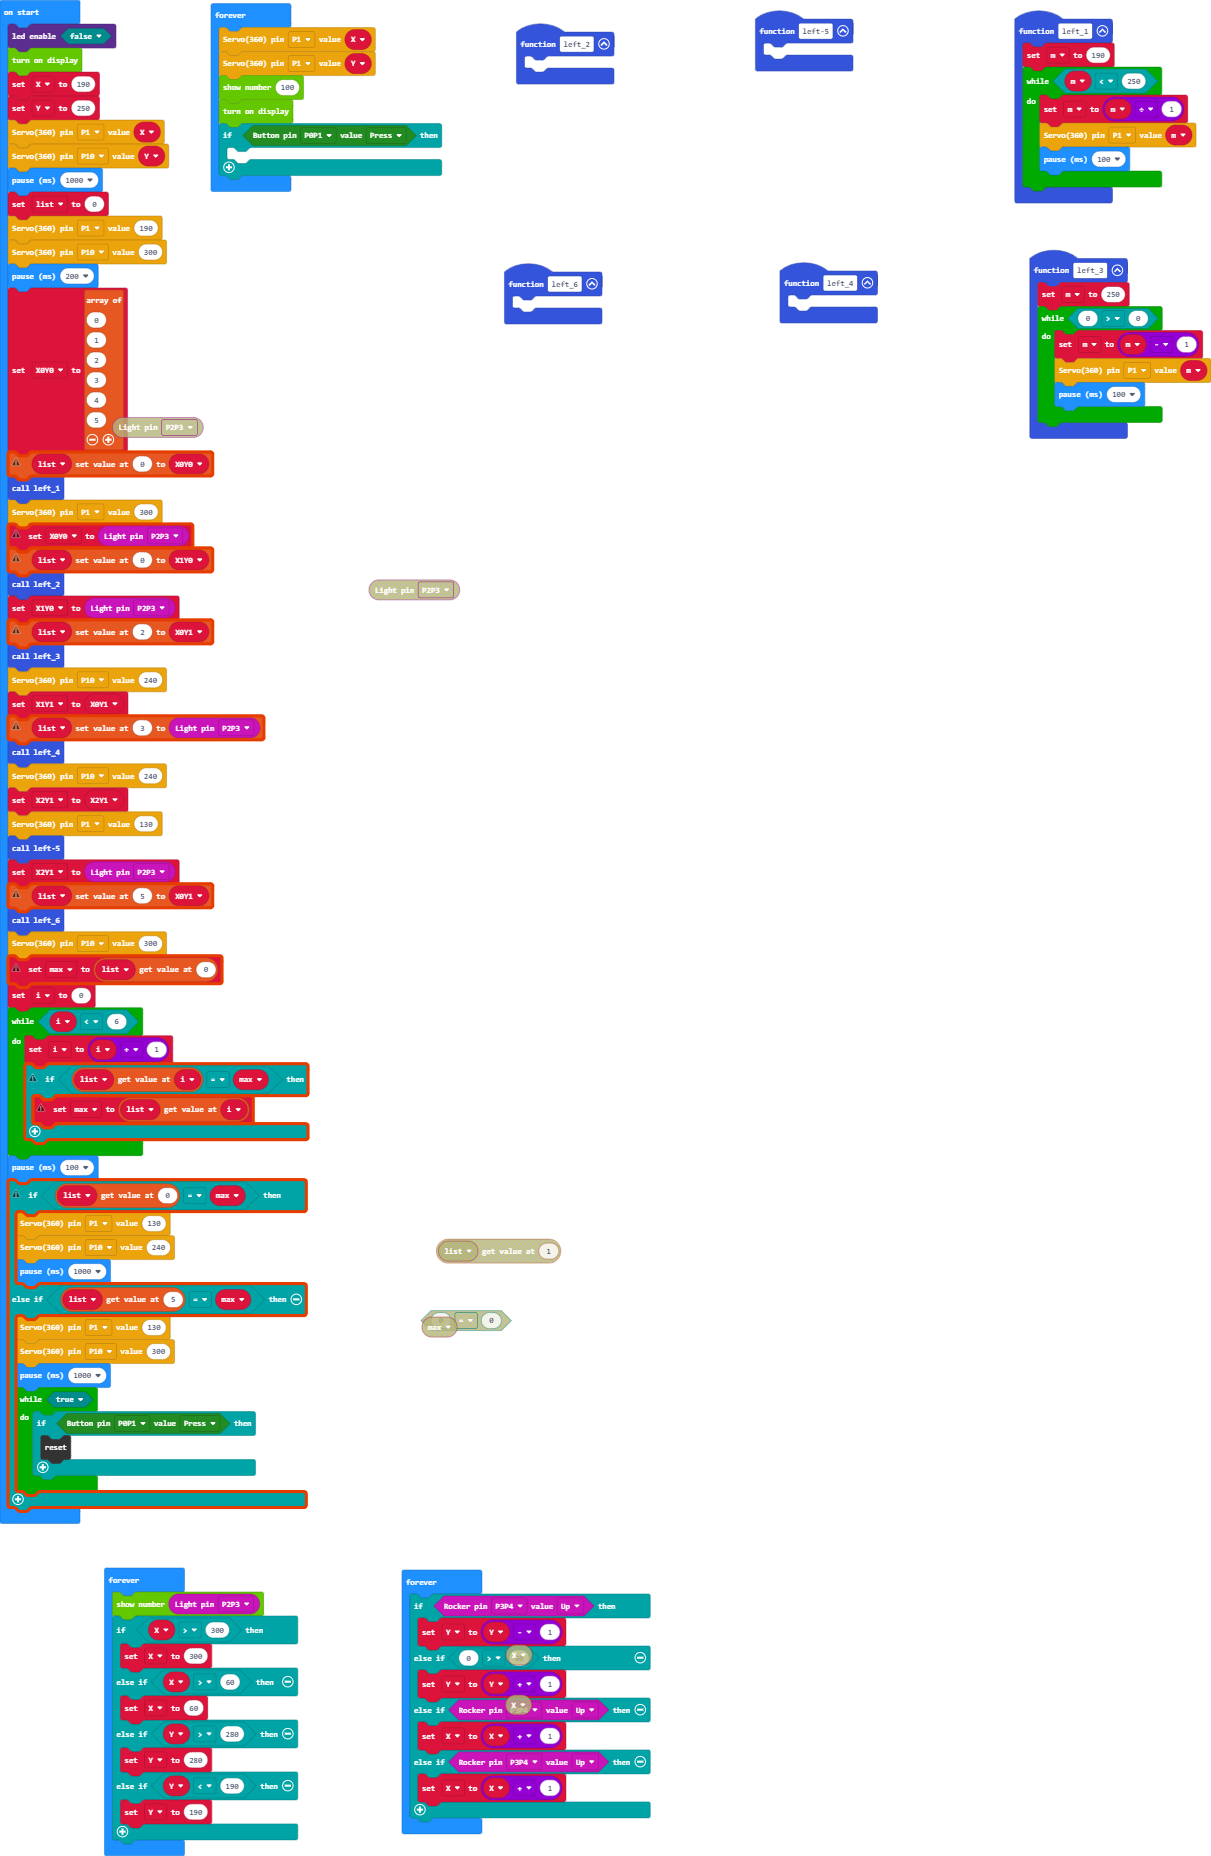
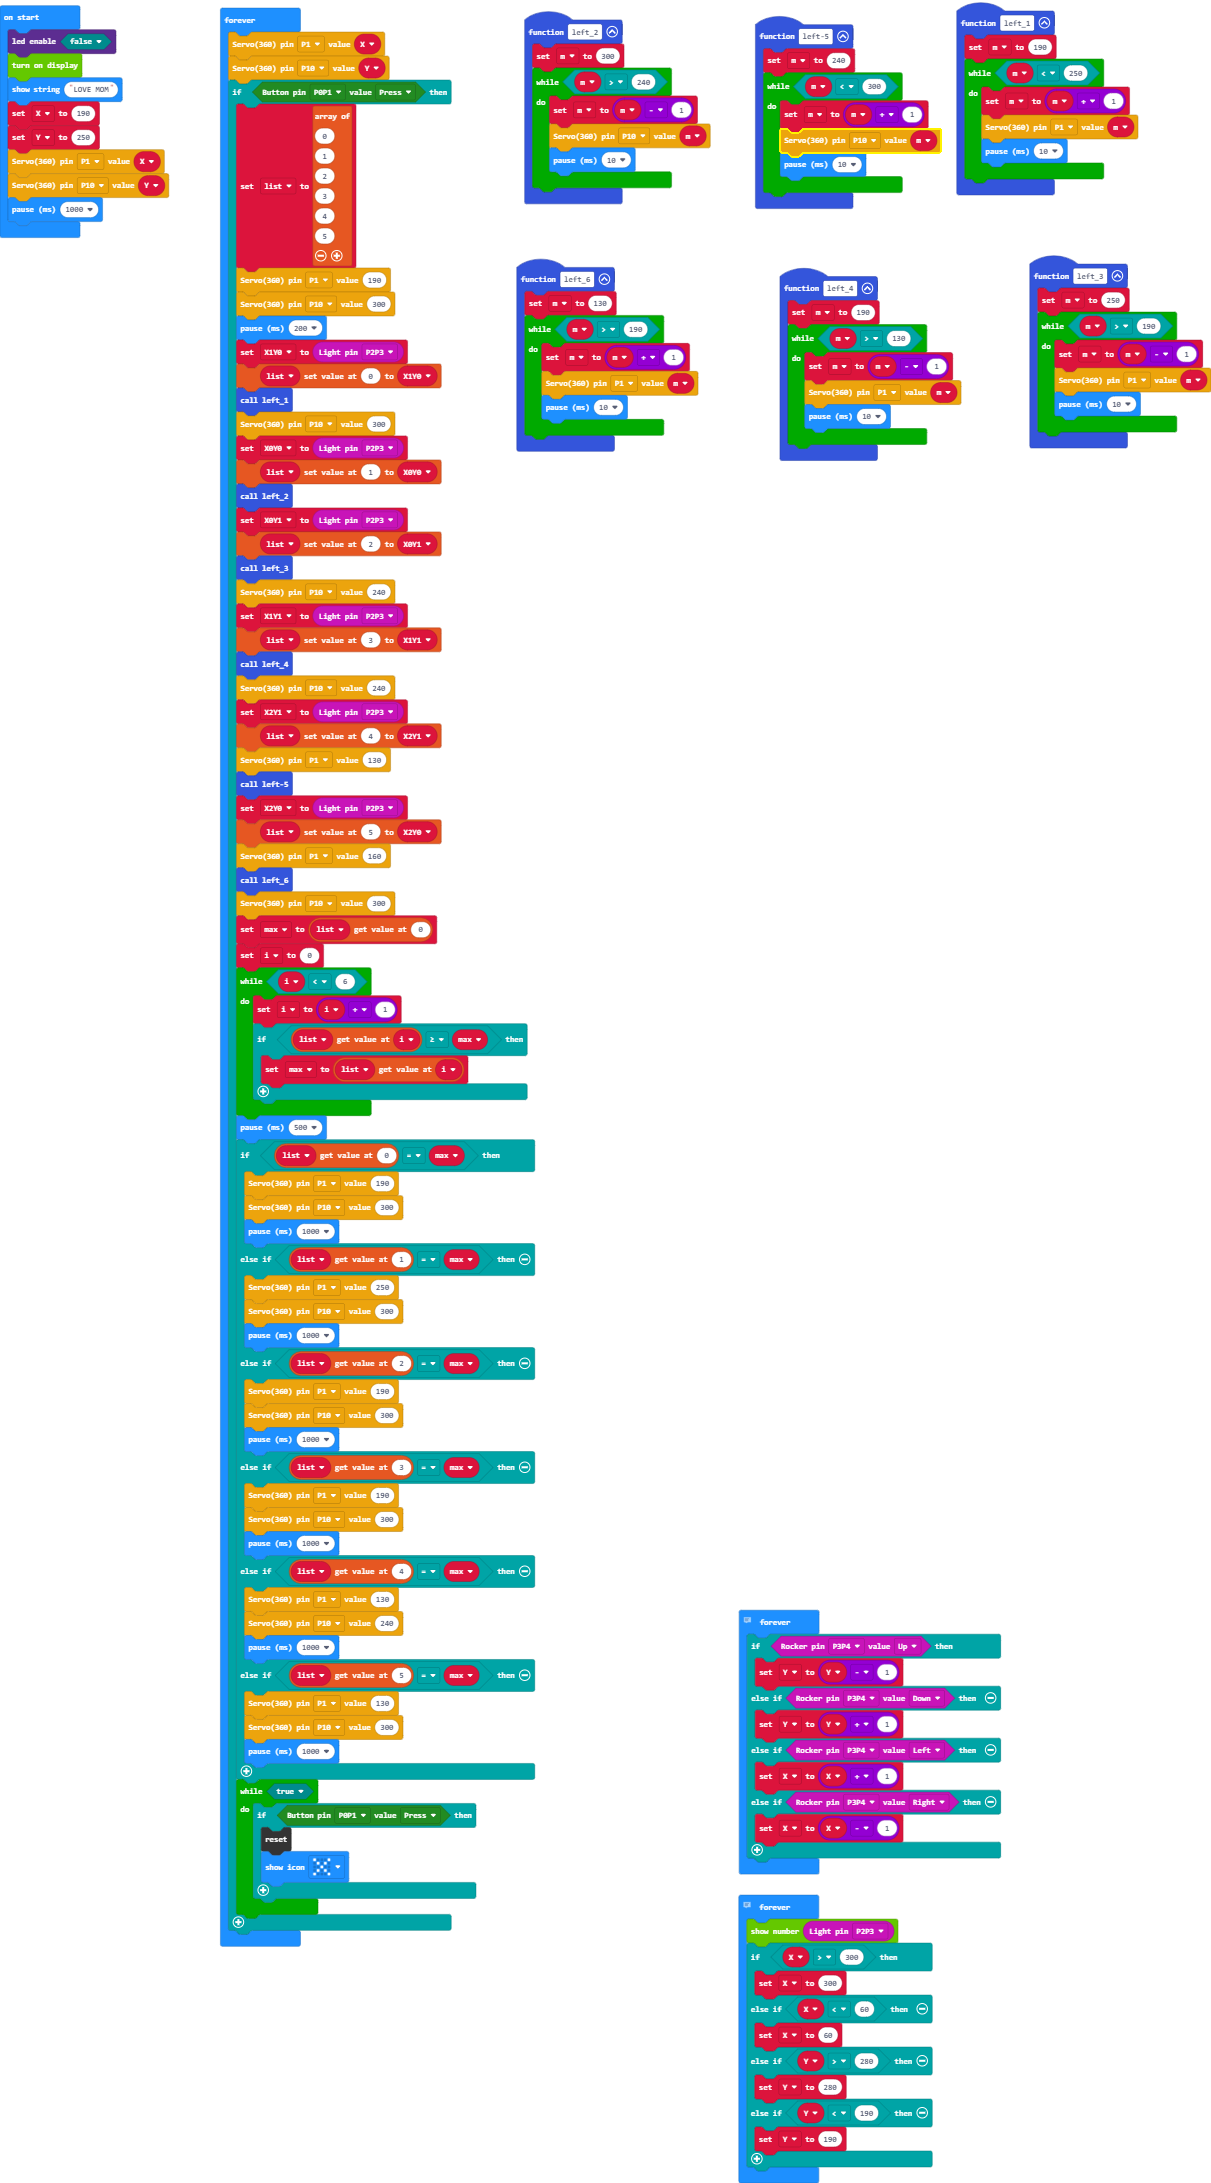
Update main.blocks, main.ts

diff --git a/main.ts b/main.ts
@@ -1,127 +1,170 @@
 function left_2 () {
-	
+    m = 300
+    while (m > 240) {
+        m = m - 1
+        ModuleWorld_PWM.Servo(ModuleWorld_PWM.mwServoNum.P10, m)
+        basic.pause(10)
+    }
 }
 function left_3 () {
     m = 250
-    while (0 > 0) {
+    while (m > 190) {
         m = m - 1
         ModuleWorld_PWM.Servo(ModuleWorld_PWM.mwServoNum.P1, m)
-        basic.pause(100)
+        basic.pause(10)
     }
 }
 function left_4 () {
-	
+    m = 190
+    while (m > 130) {
+        m = m - 1
+        ModuleWorld_PWM.Servo(ModuleWorld_PWM.mwServoNum.P1, m)
+        basic.pause(10)
+    }
 }
 function left_1 () {
     m = 190
     while (m < 250) {
-        m = m / 1
+        m = m + 1
         ModuleWorld_PWM.Servo(ModuleWorld_PWM.mwServoNum.P1, m)
-        basic.pause(100)
+        basic.pause(10)
     }
 }
 function left_6 () {
-	
+    m = 130
+    while (m > 190) {
+        m = m + 1
+        ModuleWorld_PWM.Servo(ModuleWorld_PWM.mwServoNum.P1, m)
+        basic.pause(10)
+    }
 }
 function left5 () {
-	
+    m = 240
+    while (m < 300) {
+        m = m + 1
+        ModuleWorld_PWM.Servo(ModuleWorld_PWM.mwServoNum.P10, m)
+        basic.pause(10)
+    }
 }
-let m = 0
+let i = 0
+let max = 0
+let X2Y0 = 0
 let X2Y1 = 0
+let X1Y1 = 0
 let X0Y1 = 0
+let X0Y0 = 0
 let X1Y0 = 0
+let list: number[] = []
+let m = 0
 led.enable(false)
 TM1650.on()
+basic.showString("LOVE MOM")
 let X = 190
 let Y = 250
 ModuleWorld_PWM.Servo(ModuleWorld_PWM.mwServoNum.P1, X)
 ModuleWorld_PWM.Servo(ModuleWorld_PWM.mwServoNum.P10, Y)
 basic.pause(1000)
-let list = 0
-ModuleWorld_PWM.Servo(ModuleWorld_PWM.mwServoNum.P1, 190)
-ModuleWorld_PWM.Servo(ModuleWorld_PWM.mwServoNum.P10, 300)
-basic.pause(200)
-let X0Y0 = [
-0,
-1,
-2,
-3,
-4,
-5
-]
-list[0] = X0Y0
-left_1()
-ModuleWorld_PWM.Servo(ModuleWorld_PWM.mwServoNum.P1, 300)
-X0Y0 = ModuleWorld_Analog.Light(ModuleWorld_Analog.mwAnalogNum.AP2P3)
-list[0] = X1Y0
-left_2()
-X1Y0 = ModuleWorld_Analog.Light(ModuleWorld_Analog.mwAnalogNum.AP2P3)
-list[2] = X0Y1
-left_3()
-ModuleWorld_PWM.Servo(ModuleWorld_PWM.mwServoNum.P10, 240)
-let X1Y1 = X0Y1
-list[3] = ModuleWorld_Analog.Light(ModuleWorld_Analog.mwAnalogNum.AP2P3)
-left_4()
-ModuleWorld_PWM.Servo(ModuleWorld_PWM.mwServoNum.P10, 240)
-X2Y1 = X2Y1
-ModuleWorld_PWM.Servo(ModuleWorld_PWM.mwServoNum.P1, 130)
-left5()
-X2Y1 = ModuleWorld_Analog.Light(ModuleWorld_Analog.mwAnalogNum.AP2P3)
-list[5] = X0Y1
-left_6()
-ModuleWorld_PWM.Servo(ModuleWorld_PWM.mwServoNum.P10, 300)
-let max = list[0]
-let i = 0
-while (i < 6) {
-    i = i + 1
-    if (list[i] == max) {
-        max = list[i]
-    }
-}
-basic.pause(100)
-if (list[0] == max) {
-    ModuleWorld_PWM.Servo(ModuleWorld_PWM.mwServoNum.P1, 130)
-    ModuleWorld_PWM.Servo(ModuleWorld_PWM.mwServoNum.P10, 240)
-    basic.pause(1000)
-} else if (list[5] == max) {
-    ModuleWorld_PWM.Servo(ModuleWorld_PWM.mwServoNum.P1, 130)
-    ModuleWorld_PWM.Servo(ModuleWorld_PWM.mwServoNum.P10, 300)
-    basic.pause(1000)
-    while (true) {
-        if (ModuleWorld_Digital.Button(ModuleWorld_Digital.mwDigitalNum.P0P1, ModuleWorld_Digital.enButton.Press)) {
-            control.reset()
-        }
-    }
-}
 basic.forever(function () {
     ModuleWorld_PWM.Servo(ModuleWorld_PWM.mwServoNum.P1, X)
-    ModuleWorld_PWM.Servo(ModuleWorld_PWM.mwServoNum.P1, Y)
-    TM1650.showNumber(100)
-    TM1650.on()
+    ModuleWorld_PWM.Servo(ModuleWorld_PWM.mwServoNum.P10, Y)
     if (ModuleWorld_Digital.Button(ModuleWorld_Digital.mwDigitalNum.P0P1, ModuleWorld_Digital.enButton.Press)) {
-    	
+        list = [
+        0,
+        1,
+        2,
+        3,
+        4,
+        5
+        ]
+        ModuleWorld_PWM.Servo(ModuleWorld_PWM.mwServoNum.P1, 190)
+        ModuleWorld_PWM.Servo(ModuleWorld_PWM.mwServoNum.P10, 300)
+        basic.pause(200)
+        X1Y0 = ModuleWorld_Analog.Light(ModuleWorld_Analog.mwAnalogNum.AP2P3)
+        list[0] = X1Y0
+        left_1()
+        ModuleWorld_PWM.Servo(ModuleWorld_PWM.mwServoNum.P10, 300)
+        X0Y0 = ModuleWorld_Analog.Light(ModuleWorld_Analog.mwAnalogNum.AP2P3)
+        list[1] = X0Y0
+        left_2()
+        X0Y1 = ModuleWorld_Analog.Light(ModuleWorld_Analog.mwAnalogNum.AP2P3)
+        list[2] = X0Y1
+        left_3()
+        ModuleWorld_PWM.Servo(ModuleWorld_PWM.mwServoNum.P10, 240)
+        X1Y1 = ModuleWorld_Analog.Light(ModuleWorld_Analog.mwAnalogNum.AP2P3)
+        list[3] = X1Y1
+        left_4()
+        ModuleWorld_PWM.Servo(ModuleWorld_PWM.mwServoNum.P10, 240)
+        X2Y1 = ModuleWorld_Analog.Light(ModuleWorld_Analog.mwAnalogNum.AP2P3)
+        list[4] = X2Y1
+        ModuleWorld_PWM.Servo(ModuleWorld_PWM.mwServoNum.P1, 130)
+        left5()
+        X2Y0 = ModuleWorld_Analog.Light(ModuleWorld_Analog.mwAnalogNum.AP2P3)
+        list[5] = X2Y0
+        ModuleWorld_PWM.Servo(ModuleWorld_PWM.mwServoNum.P1, 160)
+        left_6()
+        ModuleWorld_PWM.Servo(ModuleWorld_PWM.mwServoNum.P10, 300)
+        max = list[0]
+        i = 0
+        while (i < 6) {
+            i = i + 1
+            if (list[i] >= max) {
+                max = list[i]
+            }
+        }
+        basic.pause(500)
+        if (list[0] == max) {
+            ModuleWorld_PWM.Servo(ModuleWorld_PWM.mwServoNum.P1, 190)
+            ModuleWorld_PWM.Servo(ModuleWorld_PWM.mwServoNum.P10, 300)
+            basic.pause(1000)
+        } else if (list[1] == max) {
+            ModuleWorld_PWM.Servo(ModuleWorld_PWM.mwServoNum.P1, 250)
+            ModuleWorld_PWM.Servo(ModuleWorld_PWM.mwServoNum.P10, 300)
+            basic.pause(1000)
+        } else if (list[2] == max) {
+            ModuleWorld_PWM.Servo(ModuleWorld_PWM.mwServoNum.P1, 190)
+            ModuleWorld_PWM.Servo(ModuleWorld_PWM.mwServoNum.P10, 300)
+            basic.pause(1000)
+        } else if (list[3] == max) {
+            ModuleWorld_PWM.Servo(ModuleWorld_PWM.mwServoNum.P1, 190)
+            ModuleWorld_PWM.Servo(ModuleWorld_PWM.mwServoNum.P10, 300)
+            basic.pause(1000)
+        } else if (list[4] == max) {
+            ModuleWorld_PWM.Servo(ModuleWorld_PWM.mwServoNum.P1, 130)
+            ModuleWorld_PWM.Servo(ModuleWorld_PWM.mwServoNum.P10, 240)
+            basic.pause(1000)
+        } else if (list[5] == max) {
+            ModuleWorld_PWM.Servo(ModuleWorld_PWM.mwServoNum.P1, 130)
+            ModuleWorld_PWM.Servo(ModuleWorld_PWM.mwServoNum.P10, 300)
+            basic.pause(1000)
+        }
+        while (true) {
+            if (ModuleWorld_Digital.Button(ModuleWorld_Digital.mwDigitalNum.P0P1, ModuleWorld_Digital.enButton.Press)) {
+                control.reset()
+                basic.showIcon(IconNames.No)
+            }
+        }
+    }
+})
+basic.forever(function () {
+    if (ModuleWorld_Analog.Rocker(ModuleWorld_Analog.mwAnalogNum.AP3P4, ModuleWorld_Analog.enRocker.Up)) {
+        Y = Y - 1
+    } else if (ModuleWorld_Analog.Rocker(ModuleWorld_Analog.mwAnalogNum.AP3P4, ModuleWorld_Analog.enRocker.Down)) {
+        Y = Y + 1
+    } else if (ModuleWorld_Analog.Rocker(ModuleWorld_Analog.mwAnalogNum.AP3P4, ModuleWorld_Analog.enRocker.Left)) {
+        X = X + 1
+    } else if (ModuleWorld_Analog.Rocker(ModuleWorld_Analog.mwAnalogNum.AP3P4, ModuleWorld_Analog.enRocker.Right)) {
+        X = X - 1
     }
 })
 basic.forever(function () {
     TM1650.showNumber(ModuleWorld_Analog.Light(ModuleWorld_Analog.mwAnalogNum.AP2P3))
     if (X > 300) {
         X = 300
-    } else if (X > 60) {
+    } else if (X < 60) {
         X = 60
     } else if (Y > 280) {
         Y = 280
     } else if (Y < 190) {
         Y = 190
-    }
-})
-basic.forever(function () {
-    if (ModuleWorld_Analog.Rocker(ModuleWorld_Analog.mwAnalogNum.AP3P4, ModuleWorld_Analog.enRocker.Up)) {
-        Y = Y - 1
-    } else if ((0 as any) > (60 as any)) {
-        Y = Y + 1
-    } else if (ModuleWorld_Analog.Rocker(ModuleWorld_Analog.mwAnalogNum.AP3P4, ModuleWorld_Analog.enRocker.Up)) {
-        X = X + 1
-    } else if (ModuleWorld_Analog.Rocker(ModuleWorld_Analog.mwAnalogNum.AP3P4, ModuleWorld_Analog.enRocker.Up)) {
-        X = X + 1
     }
 })
